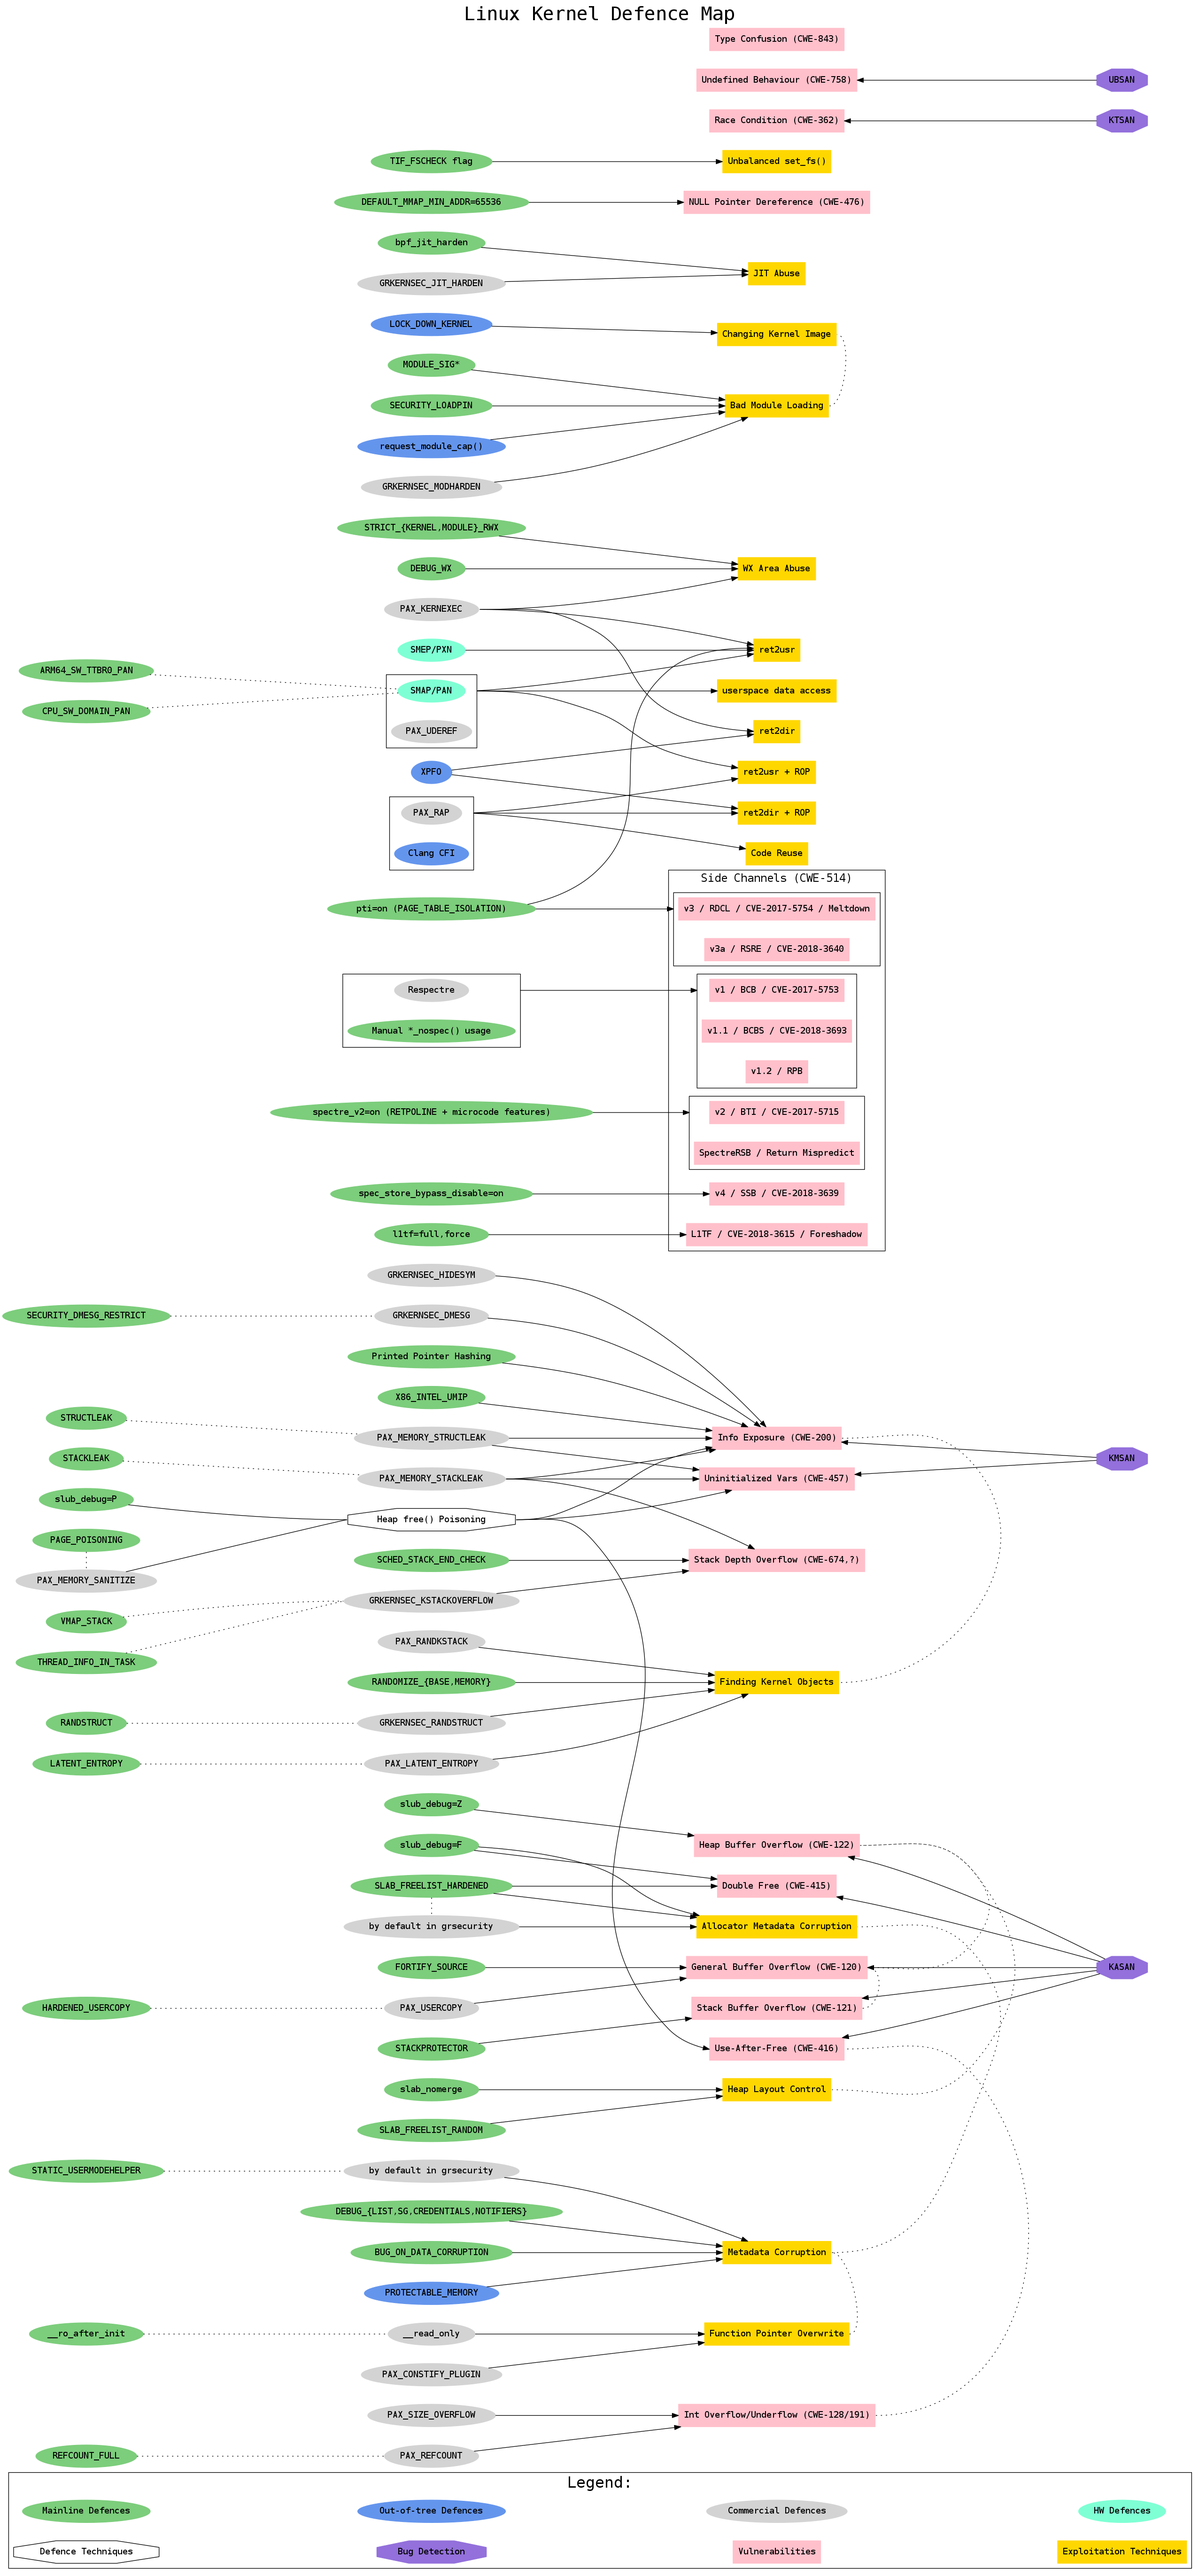
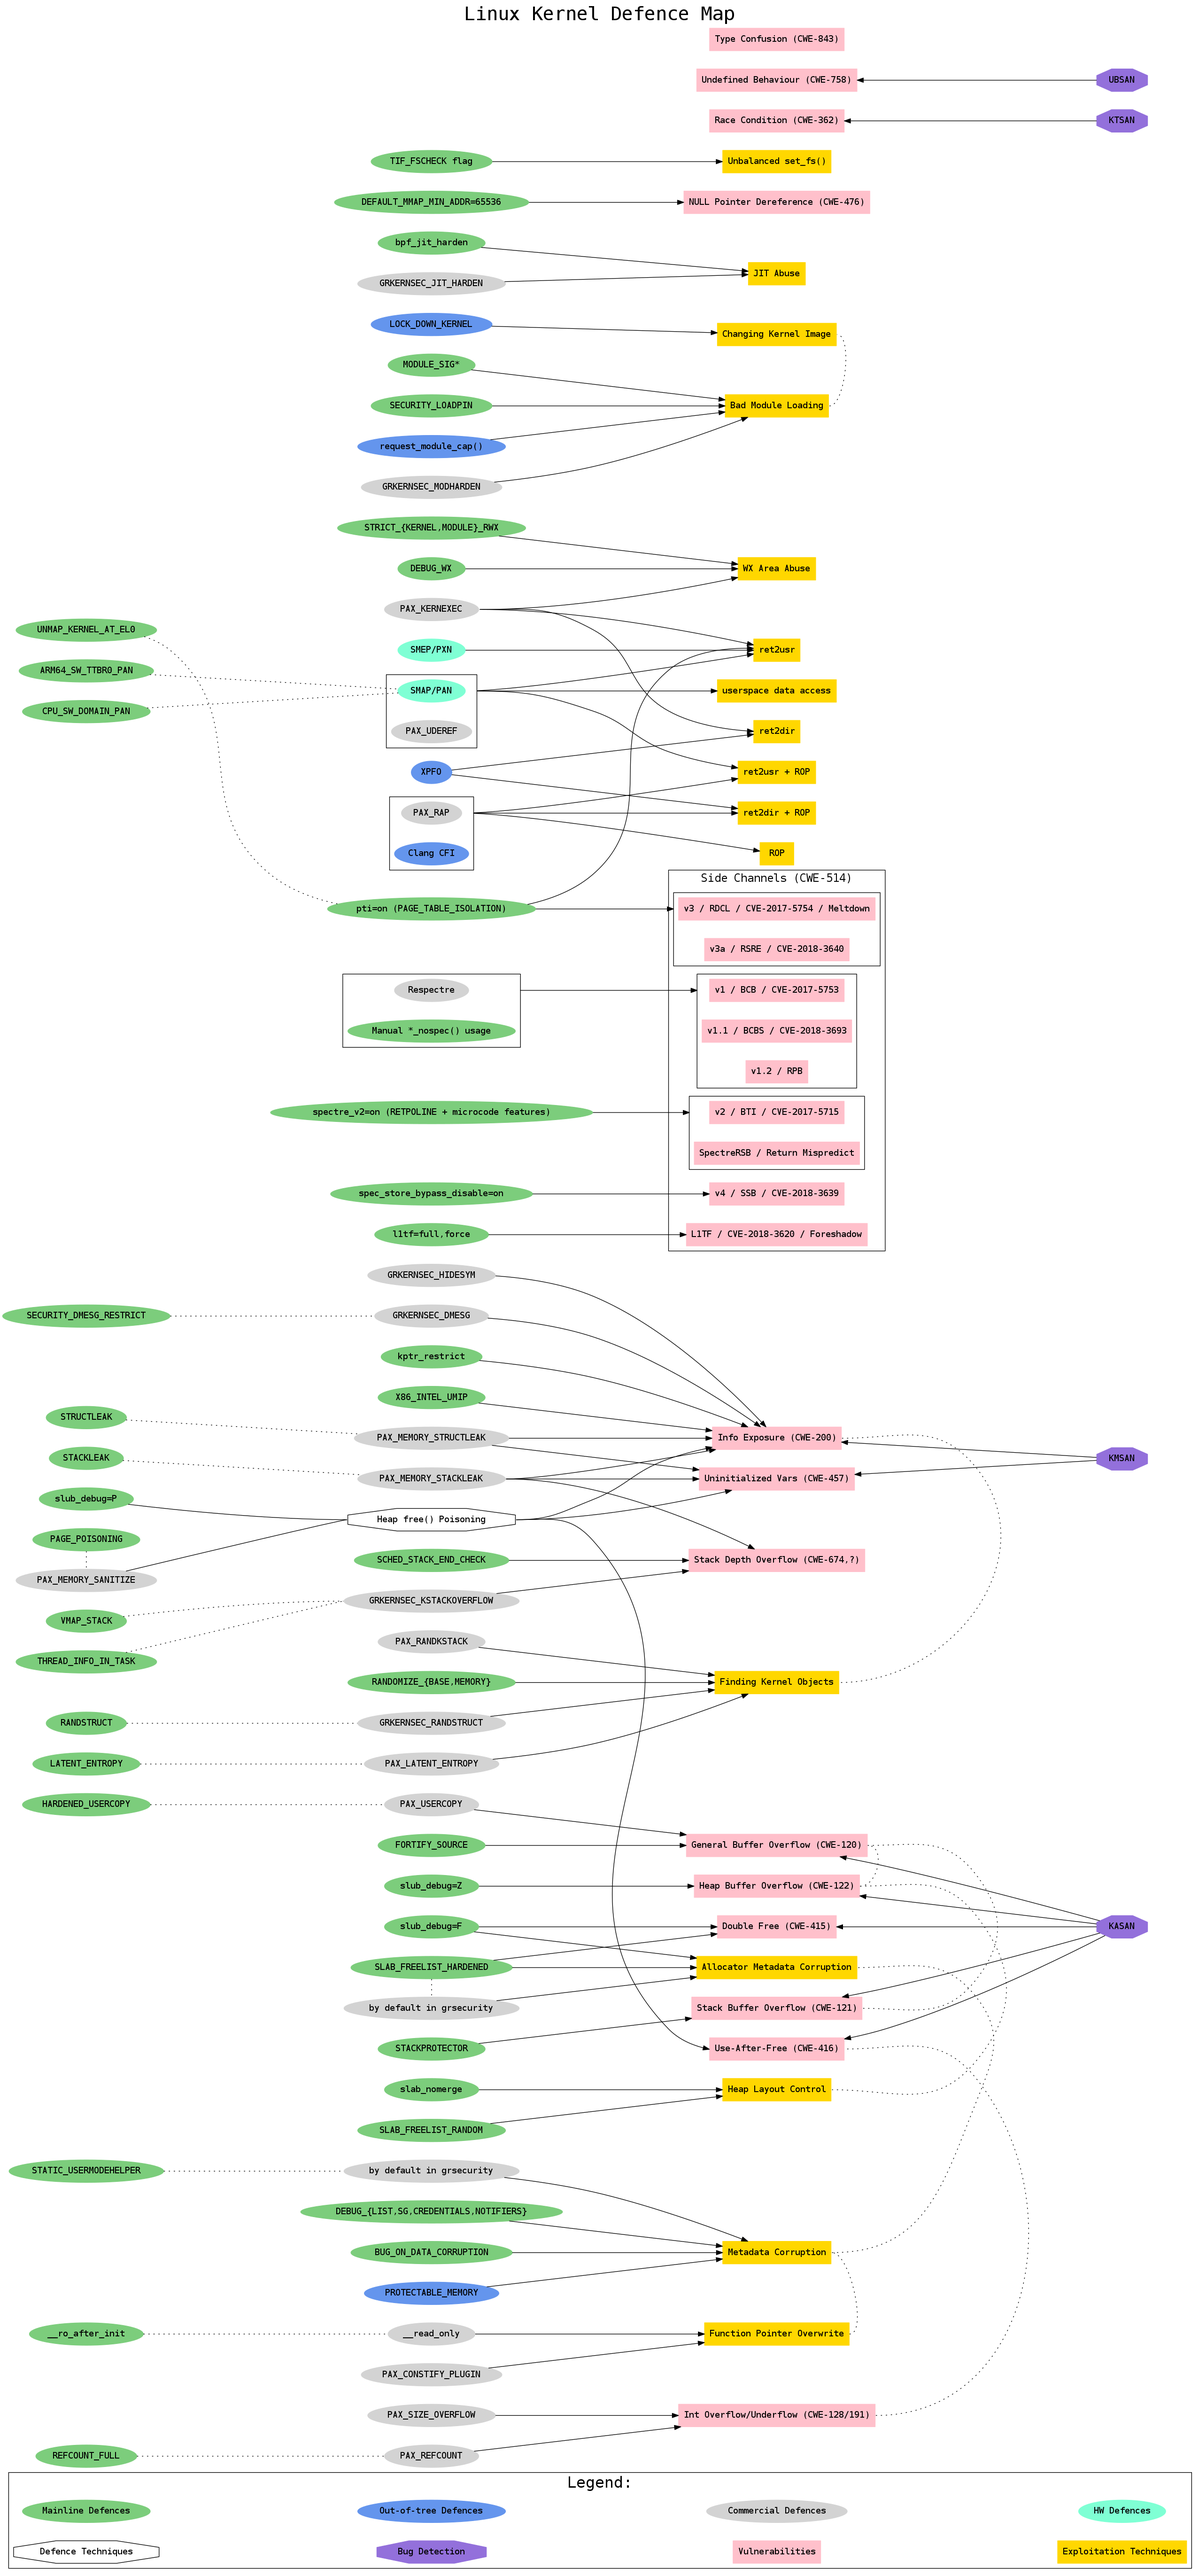
Update README and png

diff --git a/README.md b/README.md
@@ -48,7 +48,7 @@ dot -Tpng linux-kernel-defence-map.dot -o linux-kernel-defence-map.png
 
   https://github.com/Microsoft/MSRC-Security-Research/tree/master/presentations/2019_02_BlueHatIL
 
-## The Map for v4.19
+## The Map for v5.0
 
 ![Linux Kernel Defence Map](./linux-kernel-defence-map.png)
 
